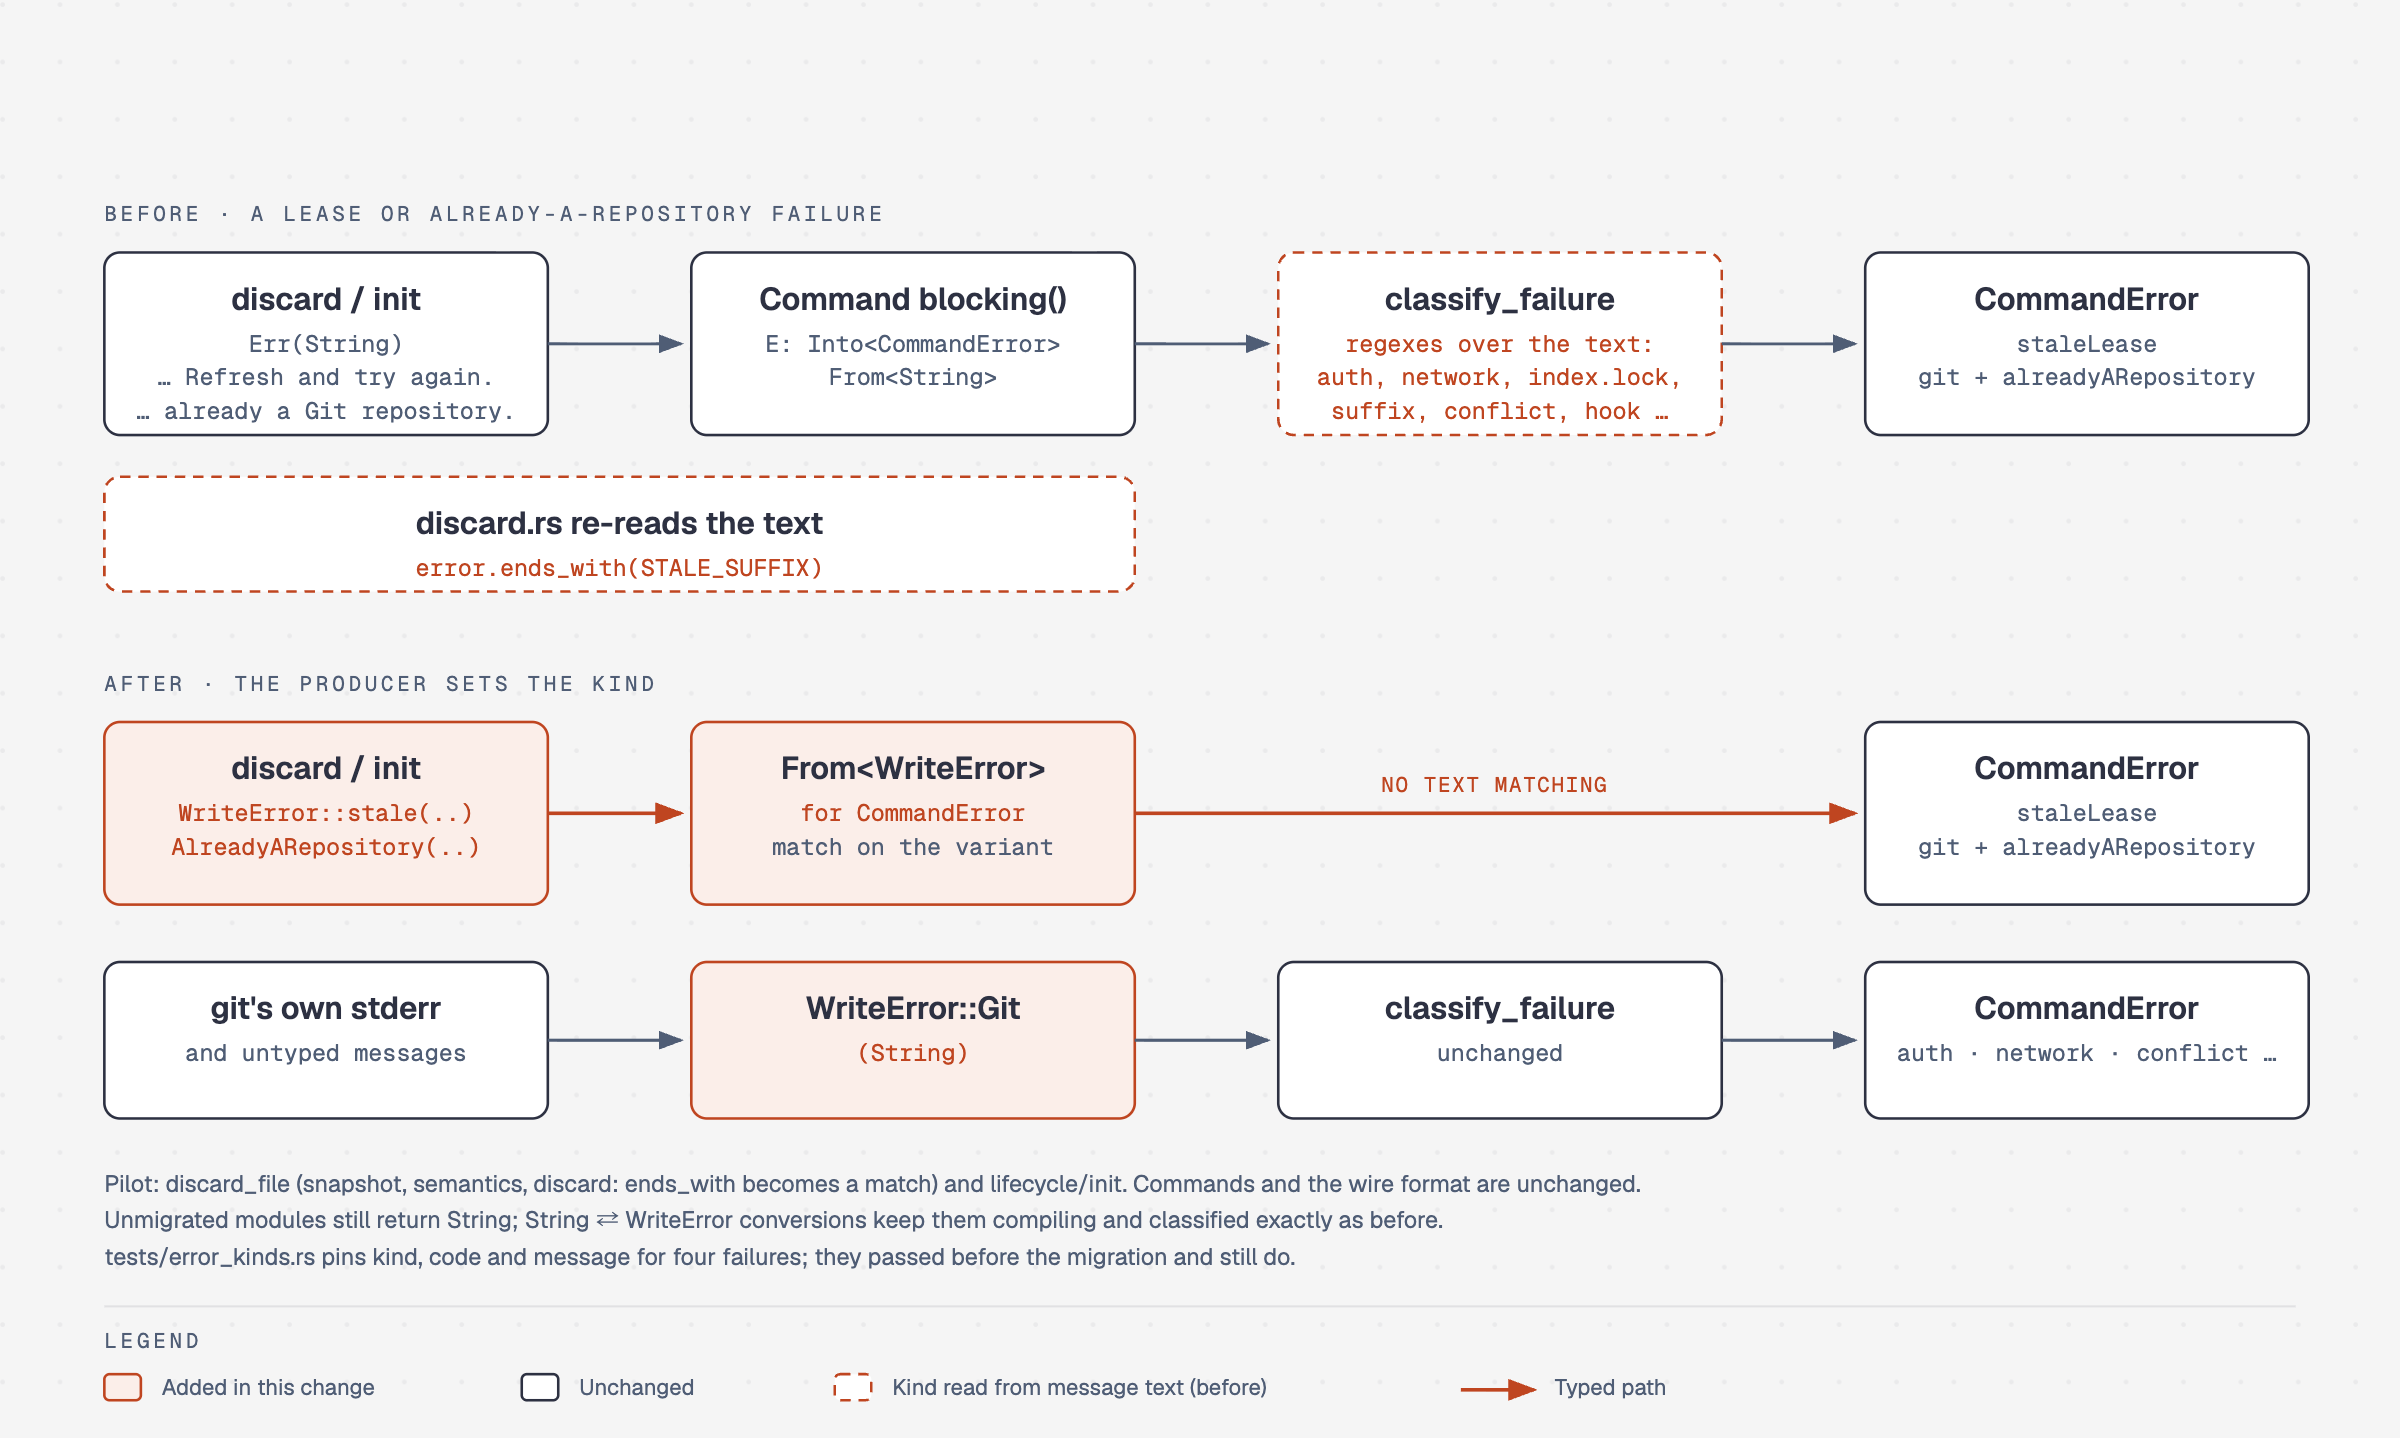
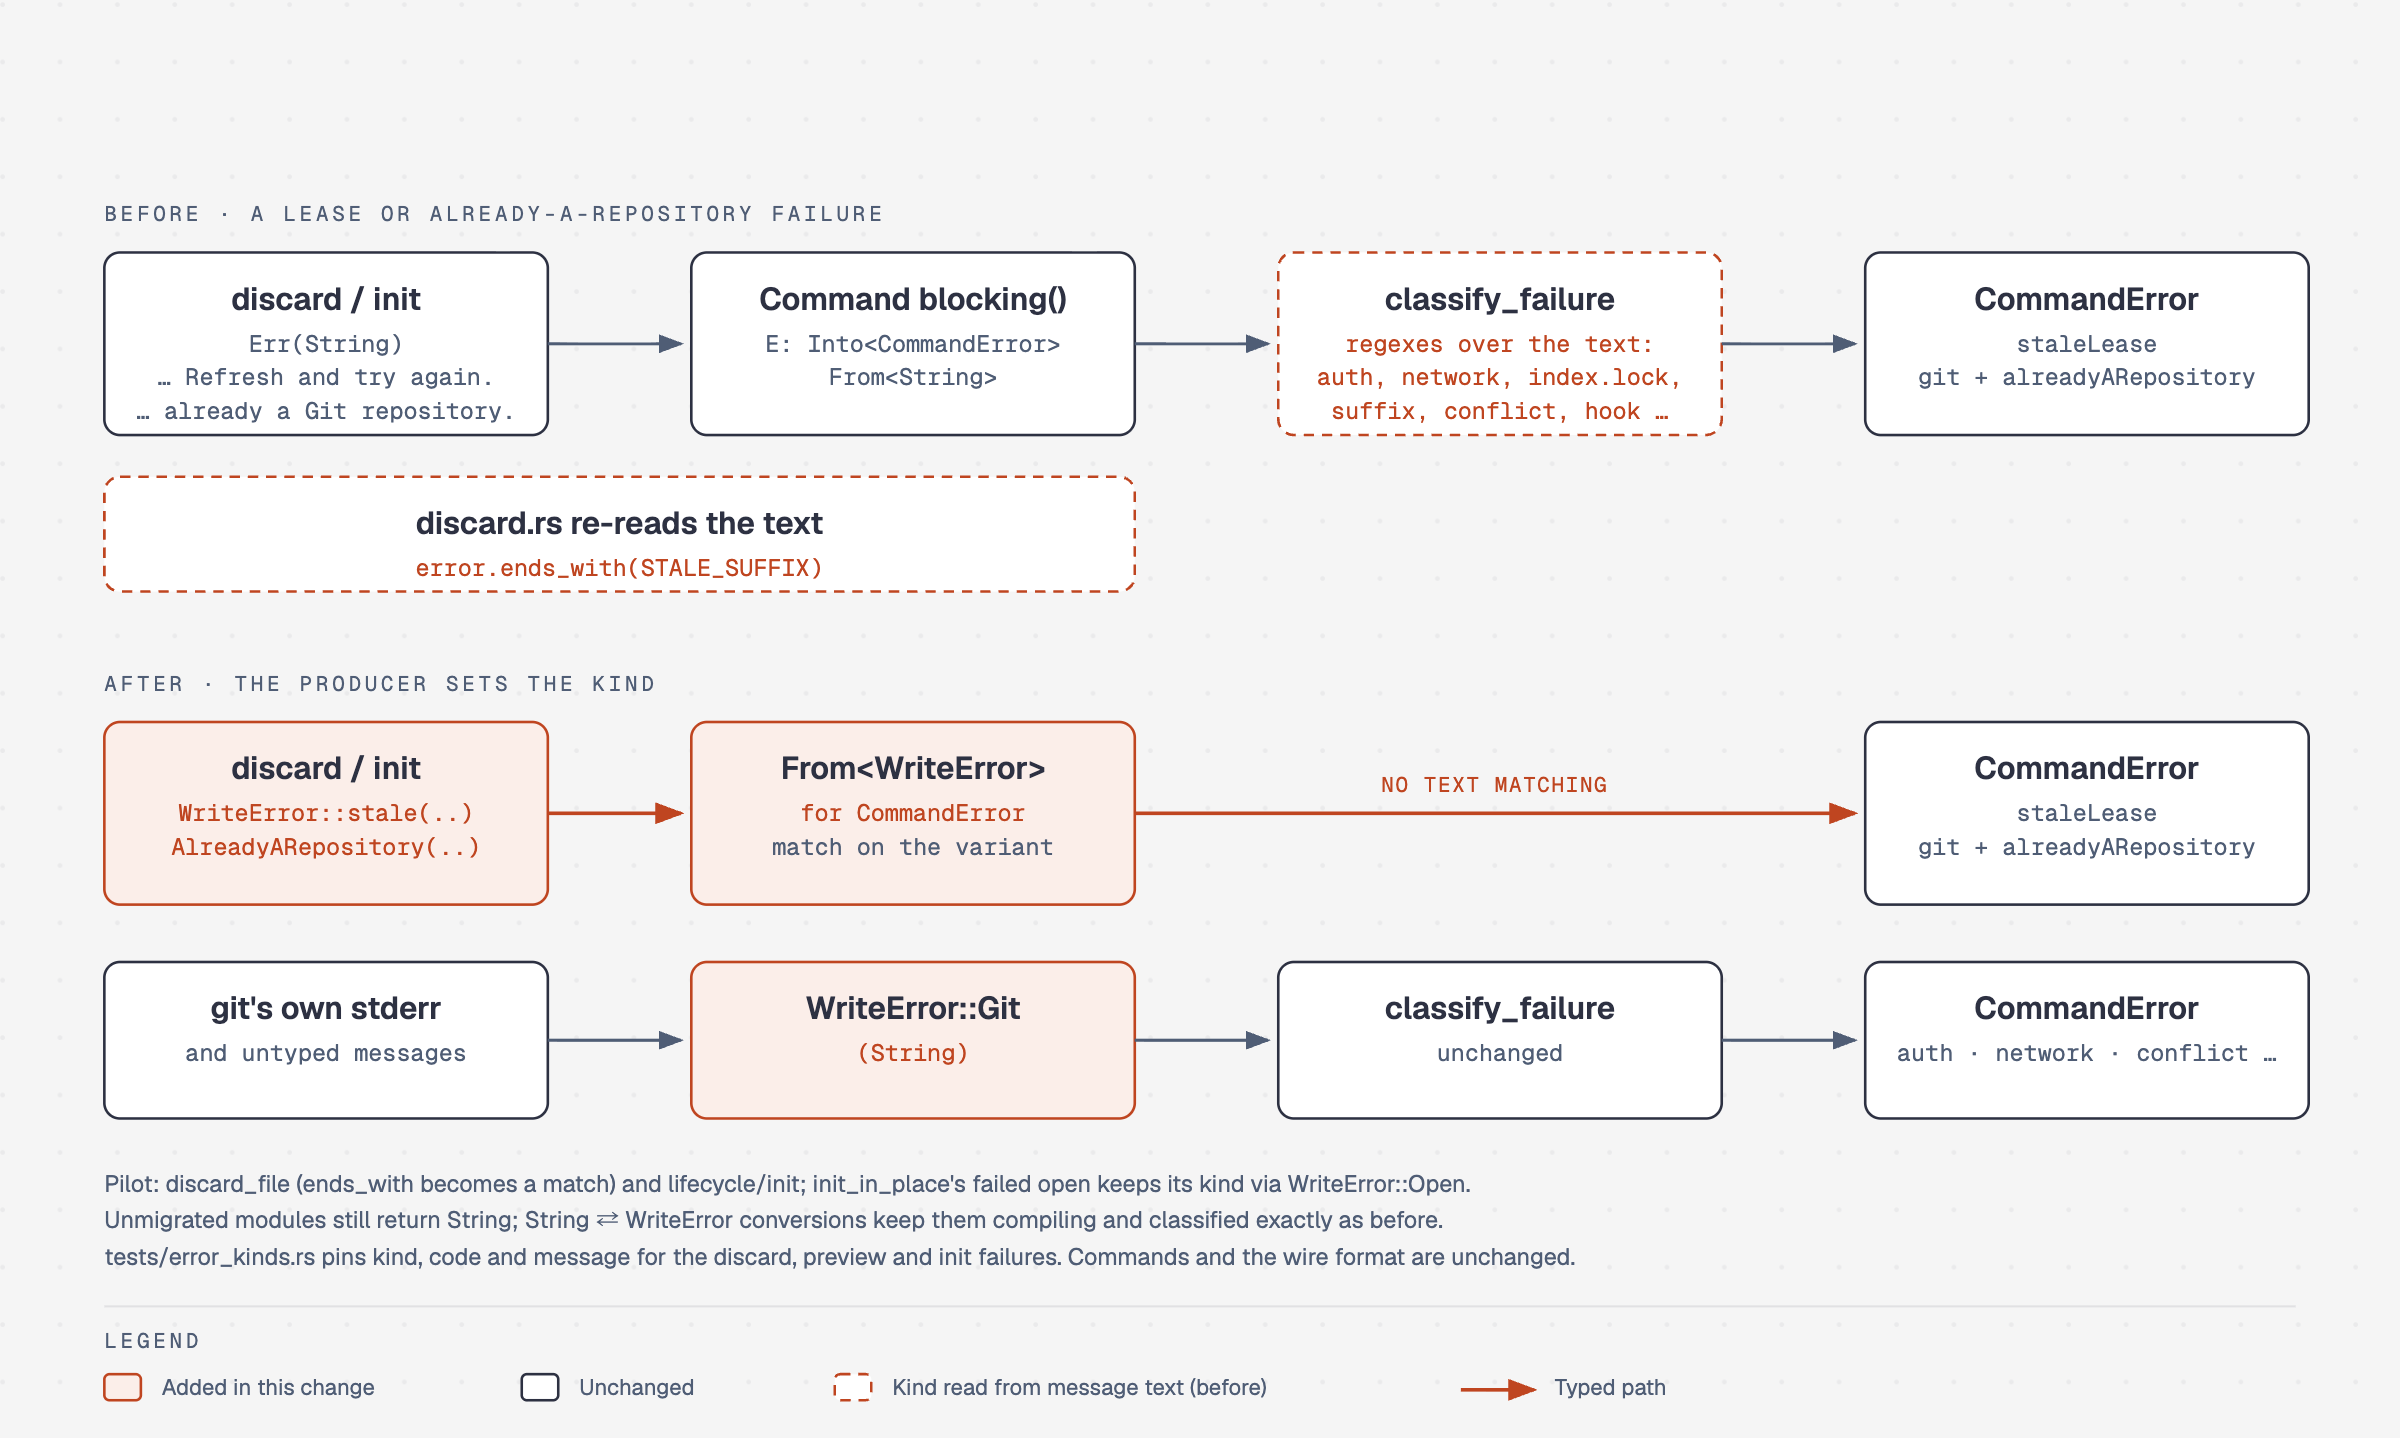
fix(rust): Address review on typed write errors
- Pin the stale-lease kind the preview command gets straight from the
  capture ("changed while GitLane was inspecting them", "no longer
  available"); the existing pins only covered discard_file, which
  rewords them.
- Make the recapture pin swap .git for a broken gitfile, so
  Repository::discover cannot walk up to an enclosing repository.
- Add WriteError::Open(RepoOpenError) for init_in_place's post-init
  probe, so a failed open keeps its missingPath / notARepository kind
  instead of being flattened to text and reported as git.
- Mark classify_failure's "already a Git repository" branch as the
  migration fallback, and document WriteError in
  architecture-rules-rust.md section 4.

Validated with cargo fmt --check, clippy -D warnings for the desktop
and agent builds, cargo test (1626 desktop, 1370 agent) and bun run
sizes.

Changed region(s): [[0.125, 0.7955, 0.6875, 0.8261], [0.2812, 0.8567, 0.6562, 0.8873]]

diff --git a/docs/diagrams/rust-typed-write-errors/write-error-kinds.html b/docs/diagrams/rust-typed-write-errors/write-error-kinds.html
@@ -129,9 +129,9 @@
         <rect x="715" y="368" width="170" height="60" rx="6" fill="#ffffff" stroke="#2d3142" stroke-width="1"/>
         <text x="800" y="390" fill="#2d3142" font-size="12" font-weight="600" font-family="'Geist', sans-serif" text-anchor="middle">CommandError</text>
         <text x="800" y="406" fill="#4f5d75" font-size="9" font-family="'Geist Mono', monospace" text-anchor="middle">auth · network · conflict …</text>
-        <text x="40" y="456" fill="#4f5d75" font-size="9" font-family="'Geist', sans-serif">Pilot: discard_file (snapshot, semantics, discard: ends_with becomes a match) and lifecycle/init. Commands and the wire format are unchanged.</text>
+        <text x="40" y="456" fill="#4f5d75" font-size="9" font-family="'Geist', sans-serif">Pilot: discard_file (ends_with becomes a match) and lifecycle/init; init_in_place's failed open keeps its kind via WriteError::Open.</text>
         <text x="40" y="470" fill="#4f5d75" font-size="9" font-family="'Geist', sans-serif">Unmigrated modules still return String; String ⇄ WriteError conversions keep them compiling and classified exactly as before.</text>
-        <text x="40" y="484" fill="#4f5d75" font-size="9" font-family="'Geist', sans-serif">tests/error_kinds.rs pins kind, code and message for four failures; they passed before the migration and still do.</text>
+        <text x="40" y="484" fill="#4f5d75" font-size="9" font-family="'Geist', sans-serif">tests/error_kinds.rs pins kind, code and message for the discard, preview and init failures. Commands and the wire format are unchanged.</text>
         <line x1="40" y1="500" x2="880" y2="500" stroke="rgba(45,49,66,0.10)" stroke-width="0.8"/>
         <text x="40" y="516" fill="#4f5d75" font-size="8" font-family="'Geist Mono', monospace" letter-spacing="0.18em">LEGEND</text>
         <rect x="40" y="526" width="14" height="10" rx="2" fill="#fbeee9" stroke="#bf4520" stroke-width="1"/>

diff --git a/src-tauri/src/git/write/tests/error_kinds.rs b/src-tauri/src/git/write/tests/error_kinds.rs
@@ -48,9 +48,15 @@ fn a_discard_whose_recapture_fails_outright_keeps_the_cause() {
     std::fs::write(repo.0.join("target.txt"), b"edit\n").unwrap();
     let preview = preview_discard_file(repo.path(), "target.txt", None, IndexSide::Unstaged)
         .expect("preview");
+    // Swap `.git` for a broken gitfile rather than removing it: `discover` stops
+    // at an unreadable `.git` here instead of walking up to whatever repository
+    // the temp directory happens to sit in.
     let git_dir = repo.0.join(".git");
     let moved = repo.0.join(".git-moved");
-    set_discard_capture_test_hook(move || std::fs::rename(git_dir, moved).unwrap());
+    set_discard_capture_test_hook(move || {
+        std::fs::rename(&git_dir, moved).unwrap();
+        std::fs::write(&git_dir, b"not a gitfile\n").unwrap();
+    });
 
     let error = discard_file(
         repo.path(),
@@ -60,6 +66,7 @@ fn a_discard_whose_recapture_fails_outright_keeps_the_cause() {
         &preview.expected_state,
     )
     .expect_err("a recapture that cannot open the repository must not discard");
+    std::fs::remove_file(repo.0.join(".git")).unwrap();
     std::fs::rename(repo.0.join(".git-moved"), repo.0.join(".git")).unwrap();
 
     let error = to_command_error(error);
@@ -71,6 +78,43 @@ fn a_discard_whose_recapture_fails_outright_keeps_the_cause() {
         "message of {error:?}"
     );
     assert_eq!(std::fs::read(repo.0.join("target.txt")).unwrap(), b"edit\n");
+}
+
+// The preview command gets these straight from the capture, with no
+// re-wording in `discard_file`, so each producer's kind is pinned here.
+#[test]
+fn a_preview_racing_a_content_change_is_a_stale_lease() {
+    let repo = repo_with_file("pin-preview-race", "target.txt", b"base\n");
+    std::fs::write(repo.0.join("target.txt"), b"edit\n").unwrap();
+    let hook_path = repo.0.join("target.txt");
+    set_discard_capture_test_hook(move || std::fs::write(hook_path, b"a longer edit\n").unwrap());
+
+    let error = preview_discard_file(repo.path(), "target.txt", None, IndexSide::Unstaged)
+        .expect_err("a change during capture must invalidate the preview");
+
+    assert_error(
+        to_command_error(error),
+        CommandErrorKind::StaleLease,
+        None,
+        "Changes to target.txt changed while GitLane was inspecting them. Refresh and try again.",
+    );
+}
+
+#[test]
+fn a_preview_of_a_side_with_no_change_is_a_stale_lease() {
+    let repo = repo_with_file("pin-preview-no-side", "target.txt", b"base\n");
+    std::fs::write(repo.0.join("target.txt"), b"edit\n").unwrap();
+    repo.git_ok(&["add", "target.txt"]);
+
+    let error = preview_discard_file(repo.path(), "target.txt", None, IndexSide::Unstaged)
+        .expect_err("a fully staged file has no unstaged change to discard");
+
+    assert_error(
+        to_command_error(error),
+        CommandErrorKind::StaleLease,
+        None,
+        "The unstaged change for target.txt is no longer available. Refresh and try again.",
+    );
 }
 
 #[test]

diff --git a/src-tauri/src/git/write/error/tests.rs b/src-tauri/src/git/write/error/tests.rs
@@ -1,11 +1,12 @@
 use super::*;
+use crate::git::types::RepoOpenErrorKind;
 
 #[test]
 fn stale_appends_the_suffix_the_classifier_reads() {
     let error = WriteError::stale("main changed.");
-    assert_eq!(
-        error,
-        WriteError::StaleLease("main changed. Refresh and try again.".into())
+    assert!(
+        matches!(&error, WriteError::StaleLease(m) if m == "main changed. Refresh and try again."),
+        "{error:?}"
     );
     // An untyped caller that `?`s it keeps the same text, and so the same kind.
     let text: String = error.into();
@@ -14,9 +15,10 @@ fn stale_appends_the_suffix_the_classifier_reads() {
 
 #[test]
 fn a_string_becomes_an_unclassified_git_error() {
-    assert_eq!(
-        WriteError::from("boom".to_string()),
-        WriteError::Git("boom".into())
+    let error = WriteError::from("boom".to_string());
+    assert!(
+        matches!(&error, WriteError::Git(m) if m == "boom"),
+        "{error:?}"
     );
 }
 
@@ -39,6 +41,20 @@ fn each_variant_maps_to_its_command_error() {
         "fatal: Authentication failed for 'https://example.test/r.git/'".into(),
     ));
     assert_eq!(git.kind, CommandErrorKind::Auth);
+}
+
+#[test]
+fn an_open_failure_keeps_its_libgit2_kind() {
+    let open = WriteError::Open(RepoOpenError {
+        kind: RepoOpenErrorKind::Missing,
+        message: "/gone does not exist.".into(),
+        path: "/gone".into(),
+    });
+    assert_eq!(open.to_string(), "/gone does not exist.");
+    let error = CommandError::from(open);
+    assert_eq!(error.kind, CommandErrorKind::MissingPath);
+    assert_eq!(error.message, "/gone does not exist.");
+    assert_eq!(error.path.as_deref(), Some("/gone"));
 }
 
 #[test]

diff --git a/src-tauri/src/git/write/error.rs b/src-tauri/src/git/write/error.rs
@@ -12,10 +12,10 @@
 //! the classifier still recovers the same kind).
 
 use super::classify::{classify_failure, STALE_SUFFIX};
-use crate::git::types::{CommandError, CommandErrorKind};
+use crate::git::types::{CommandError, CommandErrorKind, RepoOpenError};
 
 /// A write-layer failure.
-#[derive(Debug, Clone, PartialEq, Eq, thiserror::Error)]
+#[derive(Debug, Clone, thiserror::Error)]
 pub enum WriteError {
     /// An exact-state lease failed: what the user confirmed no longer matches.
     /// The message ends with [`STALE_SUFFIX`]; build it with
@@ -25,6 +25,10 @@ pub enum WriteError {
     /// The target path is already an openable git repository.
     #[error("{0}")]
     AlreadyARepository(String),
+    /// Opening the repository failed; keeps libgit2's missing-path /
+    /// not-a-repository kind instead of flattening it to text.
+    #[error("{}", .0.message)]
+    Open(RepoOpenError),
     /// git's own (redacted) diagnostic, or a GitLane message not typed yet.
     /// Classified from its text at the IPC edge.
     #[error("{0}")]
@@ -59,6 +63,7 @@ impl From<WriteError> for CommandError {
             WriteError::AlreadyARepository(message) => {
                 CommandError::new(CommandErrorKind::Git, message).with_code("alreadyARepository")
             }
+            WriteError::Open(error) => CommandError::from(error),
             WriteError::Git(message) => classify_failure(&message),
         }
     }

diff --git a/src-tauri/src/git/write/classify.rs b/src-tauri/src/git/write/classify.rs
@@ -191,6 +191,10 @@ pub(crate) fn classify_failure(message: &str) -> CommandError {
     }
     // `init_in_place` on a path that already has a `.git` (lifecycle/init.rs):
     // the missing-repo screen treats that as "just open it" rather than a failure.
+    // shortcut: both producers now return `WriteError::AlreadyARepository`, which
+    // sets this code without text matching; this branch only catches that error
+    // round-tripped through `String`. Remove it with the String conversions once
+    // `git/write/` no longer returns `String`.
     if text.contains("is already a Git repository") {
         return CommandError::new(CommandErrorKind::Git, text).with_code("alreadyARepository");
     }

diff --git a/src-tauri/src/git/write/lifecycle/init.rs b/src-tauri/src/git/write/lifecycle/init.rs
@@ -150,7 +150,7 @@ pub fn init_in_place(path: &str) -> Result<String, WriteError> {
     super::super::cli::run_git_bare(&["init", "--", path])?;
     crate::git::read::summary_classified(path)
         .map(|summary| summary.path)
-        .map_err(|e| WriteError::Git(e.message))
+        .map_err(WriteError::Open)
 }
 
 /// Starter `.gitignore` contents for a named template, or `None` for "None" /

diff --git a/docs/rules/architecture-rules-rust.md b/docs/rules/architecture-rules-rust.md
@@ -197,6 +197,14 @@ a repository-sized libgit2 read — there freezes the whole UI (no repaint) unti
   `LeaseError` (`src-tauri/src/git/write/state_lease.rs`) is worded at the write facades
   (`discard_all/lease.rs`, `hard_reset_lease/scope.rs`) and then classified into
   `CommandError` like other git diagnostics.
+  `WriteError` (`src-tauri/src/git/write/error.rs`) is the write layer's typed error and
+  implements `From<WriteError> for CommandError` in that module. A failure GitLane itself
+  detects carries its kind from where it is raised: `WriteError::stale(reason)` for an
+  exact-state lease, `AlreadyARepository`, and `Open(RepoOpenError)` for a failed open;
+  `WriteError::Git(String)` holds git's own diagnostic and still goes through
+  `classify_failure`. New and migrated write code returns `WriteError` instead of a
+  `String` ending in "Refresh and try again."; the `String` conversions both ways exist
+  only while the rest of `git/write/` migrates (discard_file and lifecycle/init so far).
 - **`git/` never touches the Tauri runtime.** No `tauri::` path and no `AppHandle` below
   `src-tauri/src/git/`: progress is a `&dyn Fn(&Payload)` callback (an
   `Arc<dyn Fn + Send + Sync>` when a worker thread reports it), locations such as the

diff --git a/openspec/changes/rust-typed-write-errors/tasks.md b/openspec/changes/rust-typed-write-errors/tasks.md
@@ -22,3 +22,11 @@
 - [x] 4.2 `(cd src-tauri && cargo clippy --all-targets --all-features -- -D warnings)` and the agent-feature clippy both pass.
 - [x] 4.3 `(cd src-tauri && cargo test)` passes, including the existing `git/write/classify/tests.rs` and the 1.1 pins, with no change to any asserted message.
 - [x] 4.4 `bun run sizes` passes (no touched file crosses the Rust ceiling).
+
+## 5. Review follow-ups
+
+- [x] 5.1 Pin the kind of the stale leases the preview command gets straight from the capture ("changed while GitLane was inspecting them", "no longer available") in `tests/error_kinds.rs`. Verify with `cargo test error_kinds`.
+- [x] 5.2 Make the recapture pin swap `.git` for a broken gitfile, so `Repository::discover` cannot walk up to an enclosing repository. Verify with `cargo test error_kinds`.
+- [x] 5.3 Add `WriteError::Open(RepoOpenError)` and use it for `init_in_place`'s post-init probe, so a failed open keeps its `missingPath` / `notARepository` kind instead of becoming `git`. Unit-test it in `git/write/error/tests.rs`.
+- [x] 5.4 Mark the "is already a Git repository" branch in `classify_failure` as the migration fallback (`shortcut:` note), and document `WriteError` in `docs/rules/architecture-rules-rust.md` §4.
+
